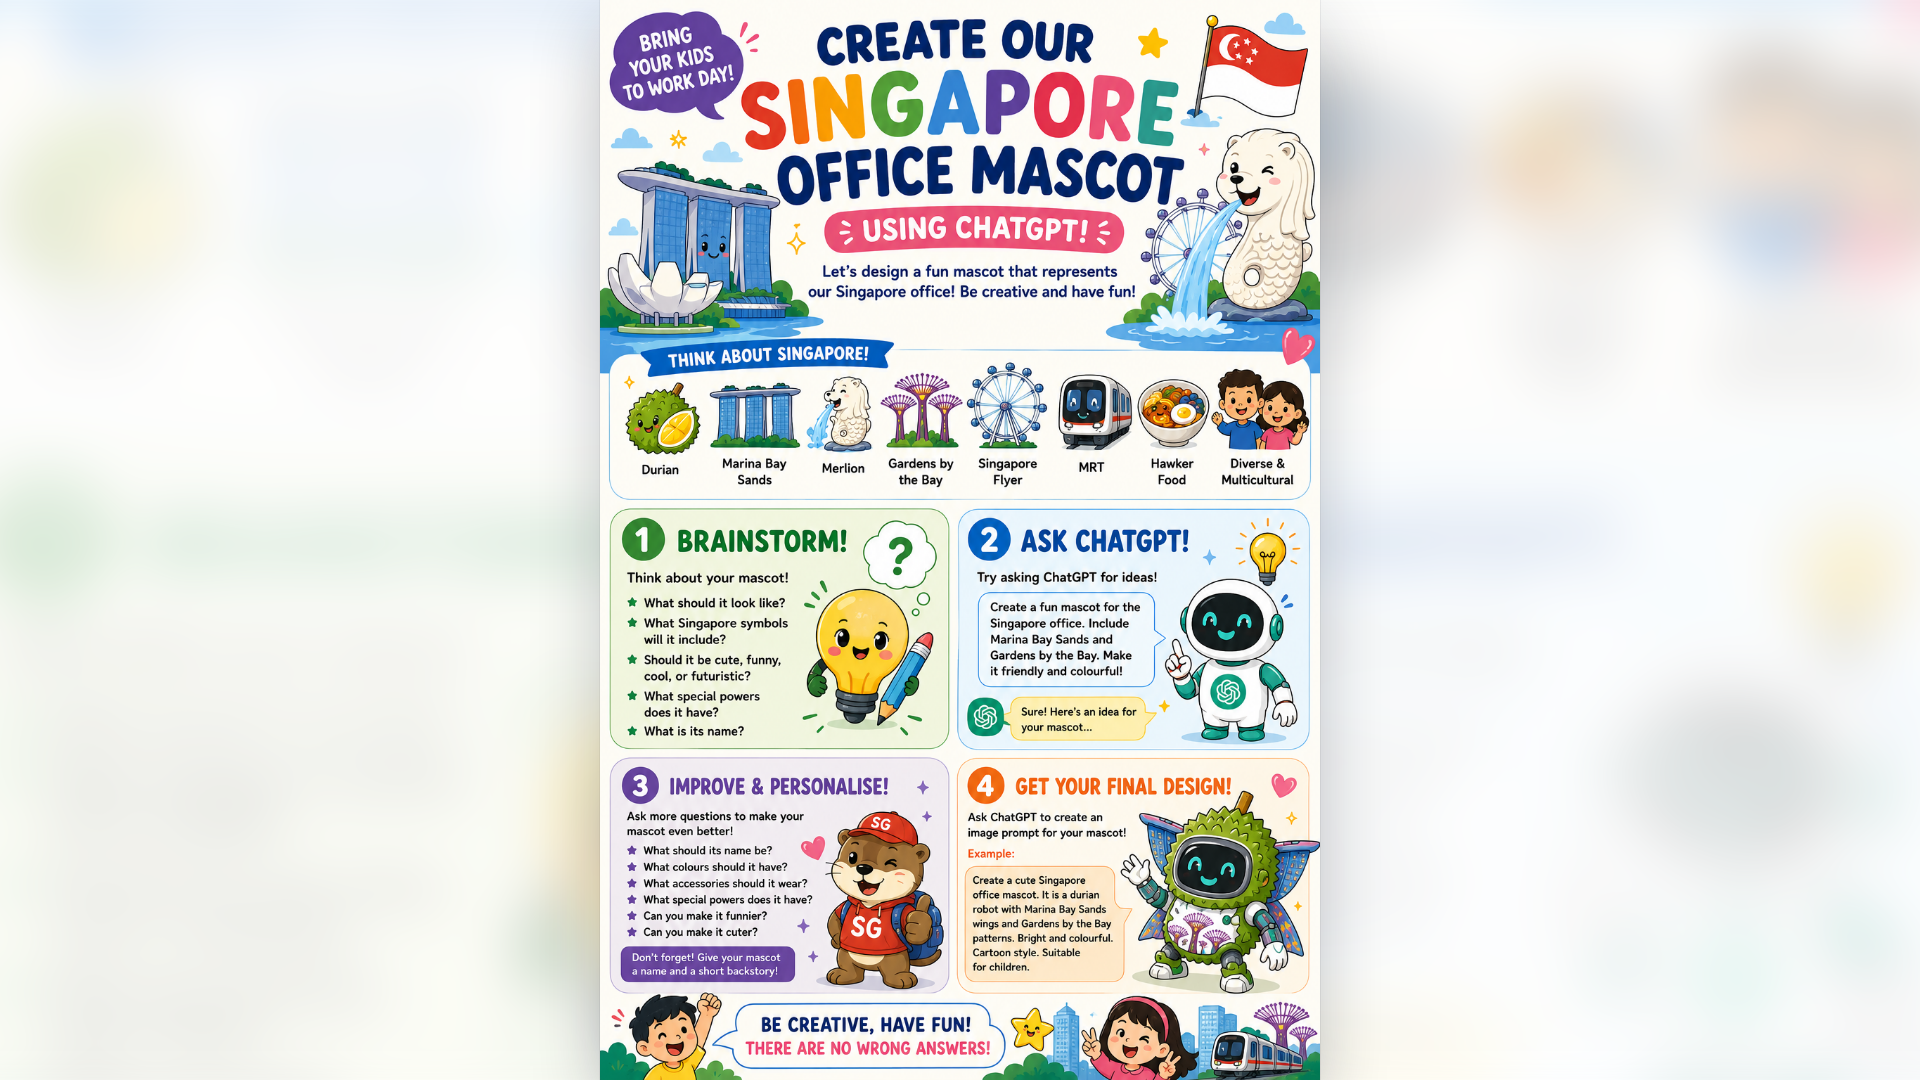
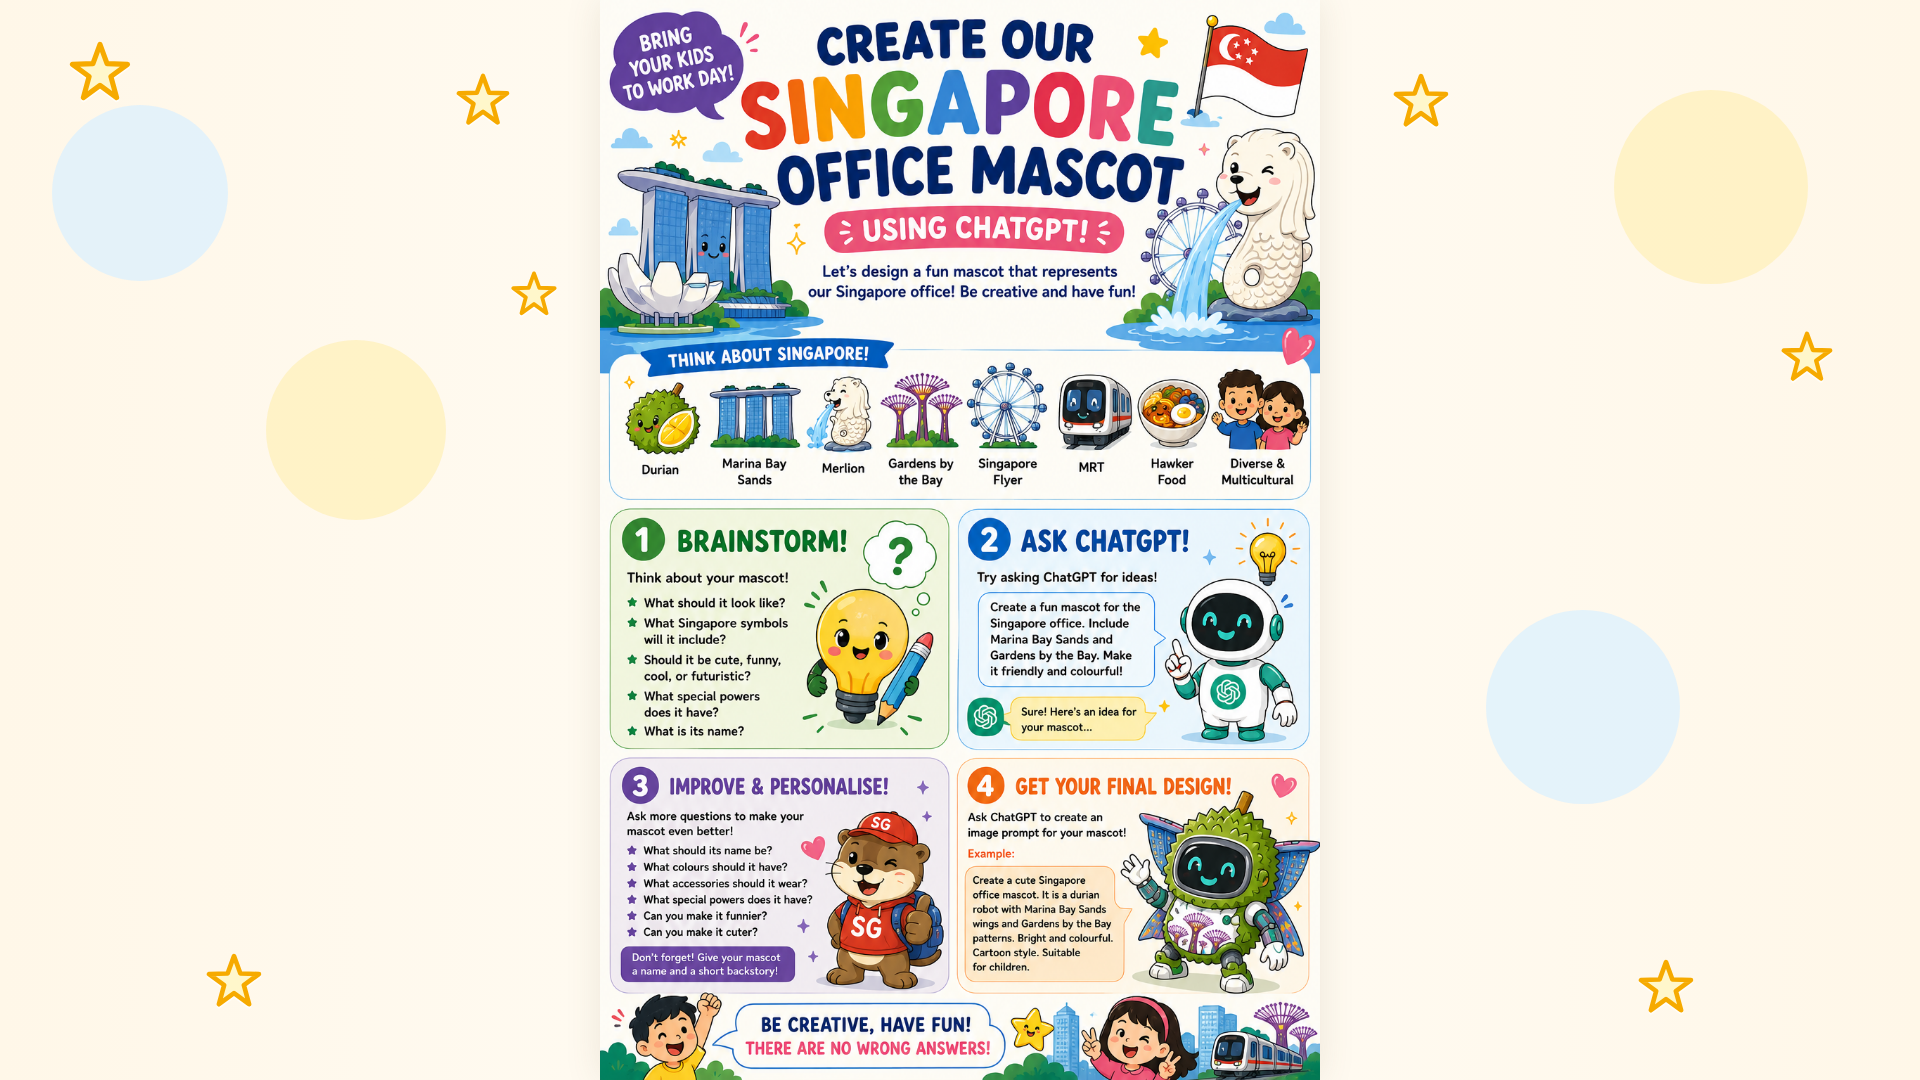
Add files via upload

diff --git a/index.html b/index.html
@@ -15,7 +15,7 @@
       height: 100%;
       margin: 0;
       overflow: hidden;
-      background: #f7fbff;
+      background: #fff7e8;
       font-family: Arial, sans-serif;
     }
 
@@ -24,63 +24,103 @@
       place-items: center;
     }
 
-    .tv-frame {
+    .stage {
       position: relative;
       width: 100vw;
       height: 100vh;
-      max-width: calc(100vh * 16 / 9);
-      max-height: calc(100vw * 9 / 16);
-      aspect-ratio: 16 / 9;
+      height: 100dvh;
       overflow: hidden;
-      background: #fff;
-    }
-
-    .poster-bg,
-    .poster-bg::after {
-      position: absolute;
-      inset: 0;
-    }
-
-    .poster-bg {
-      background-image: url("./assets/original-poster.png");
-      background-size: cover;
-      background-position: center;
-      filter: blur(28px) saturate(1.12);
-      transform: scale(1.08);
-      opacity: 0.42;
-    }
-
-    .poster-bg::after {
-      content: "";
       background:
-        radial-gradient(circle at 22% 20%, rgba(255, 255, 255, 0.78), transparent 34%),
-        radial-gradient(circle at 78% 82%, rgba(255, 255, 255, 0.70), transparent 36%),
-        rgba(255, 255, 255, 0.35);
-    }
-
-    .poster-wrap {
-      position: absolute;
-      inset: 0;
-      display: grid;
-      place-items: center;
-      padding: 0;
+        linear-gradient(90deg, #fff7e8 0%, #fffaf0 30%, #ffffff 47%, #ffffff 53%, #fffaf0 70%, #fff7e8 100%);
     }
 
     .poster {
-      display: block;
-      width: auto;
+      position: absolute;
+      z-index: 2;
+      left: 50%;
+      top: 50%;
       height: 100vh;
-      max-height: 100%;
-      max-width: 100%;
-      object-fit: contain;
+      height: 100dvh;
+      width: auto;
+      max-width: 100vw;
+      transform: translate(-50%, -50%);
+      display: block;
       background: #fff;
-      box-shadow:
-        0 0 0 1px rgba(17, 24, 39, 0.06),
-        0 24px 64px rgba(15, 23, 42, 0.24);
+      box-shadow: 0 0 34px rgba(104, 84, 44, 0.12);
     }
 
-    @media (max-aspect-ratio: 16 / 9) {
-      .tv-frame {
+    .circle {
+      position: absolute;
+      z-index: 1;
+      border-radius: 50%;
+      opacity: 0.72;
+    }
+
+    .circle.blue {
+      background: #d9f0ff;
+    }
+
+    .circle.yellow {
+      background: #fff0b8;
+    }
+
+    .c1 {
+      width: 176px;
+      height: 176px;
+      left: 52px;
+      top: 105px;
+    }
+
+    .c2 {
+      width: 180px;
+      height: 180px;
+      left: 266px;
+      top: 340px;
+    }
+
+    .c3 {
+      width: 194px;
+      height: 194px;
+      right: 112px;
+      top: 90px;
+    }
+
+    .c4 {
+      width: 194px;
+      height: 194px;
+      right: 240px;
+      bottom: 276px;
+    }
+
+    .star {
+      position: absolute;
+      z-index: 1;
+      width: 64px;
+      height: 64px;
+      color: #f6aa00;
+      filter: drop-shadow(0 2px 0 rgba(255, 255, 255, 0.7));
+    }
+
+    .star svg {
+      width: 100%;
+      height: 100%;
+      display: block;
+      fill: #fff7cb;
+      stroke: currentColor;
+      stroke-width: 8;
+      stroke-linejoin: round;
+    }
+
+    .s1 { left: 68px; top: 40px; }
+    .s2 { left: 455px; top: 72px; width: 56px; height: 56px; }
+    .s3 { left: 510px; top: 270px; width: 48px; height: 48px; }
+    .s4 { left: 205px; bottom: 70px; width: 58px; height: 58px; }
+    .s5 { right: 470px; top: 72px; width: 58px; height: 58px; }
+    .s6 { right: 86px; top: 330px; width: 54px; height: 54px; }
+    .s7 { right: 225px; bottom: 64px; width: 58px; height: 58px; }
+
+    @media (max-aspect-ratio: 4 / 3) {
+      .poster {
         width: 100vw;
         height: auto;
       }
@@ -88,11 +128,21 @@
   </style>
 </head>
 <body>
-  <main class="tv-frame" aria-label="16:9 TV version of the Singapore office mascot poster">
-    <div class="poster-bg" aria-hidden="true"></div>
-    <div class="poster-wrap">
-      <img class="poster" src="./assets/original-poster.png" alt="Create our Singapore office mascot using ChatGPT poster" />
-    </div>
+  <main class="stage" aria-label="16:9 TV display for Singapore office mascot poster">
+    <span class="circle blue c1" aria-hidden="true"></span>
+    <span class="circle yellow c2" aria-hidden="true"></span>
+    <span class="circle yellow c3" aria-hidden="true"></span>
+    <span class="circle blue c4" aria-hidden="true"></span>
+
+    <span class="star s1" aria-hidden="true"><svg viewBox="0 0 100 100"><path d="M50 7 L61 37 L93 38 L67 57 L76 90 L50 71 L24 90 L33 57 L7 38 L39 37 Z"/></svg></span>
+    <span class="star s2" aria-hidden="true"><svg viewBox="0 0 100 100"><path d="M50 7 L61 37 L93 38 L67 57 L76 90 L50 71 L24 90 L33 57 L7 38 L39 37 Z"/></svg></span>
+    <span class="star s3" aria-hidden="true"><svg viewBox="0 0 100 100"><path d="M50 7 L61 37 L93 38 L67 57 L76 90 L50 71 L24 90 L33 57 L7 38 L39 37 Z"/></svg></span>
+    <span class="star s4" aria-hidden="true"><svg viewBox="0 0 100 100"><path d="M50 7 L61 37 L93 38 L67 57 L76 90 L50 71 L24 90 L33 57 L7 38 L39 37 Z"/></svg></span>
+    <span class="star s5" aria-hidden="true"><svg viewBox="0 0 100 100"><path d="M50 7 L61 37 L93 38 L67 57 L76 90 L50 71 L24 90 L33 57 L7 38 L39 37 Z"/></svg></span>
+    <span class="star s6" aria-hidden="true"><svg viewBox="0 0 100 100"><path d="M50 7 L61 37 L93 38 L67 57 L76 90 L50 71 L24 90 L33 57 L7 38 L39 37 Z"/></svg></span>
+    <span class="star s7" aria-hidden="true"><svg viewBox="0 0 100 100"><path d="M50 7 L61 37 L93 38 L67 57 L76 90 L50 71 L24 90 L33 57 L7 38 L39 37 Z"/></svg></span>
+
+    <img class="poster" src="./assets/original-poster.png" alt="Create our Singapore office mascot using ChatGPT poster" />
   </main>
 </body>
 </html>